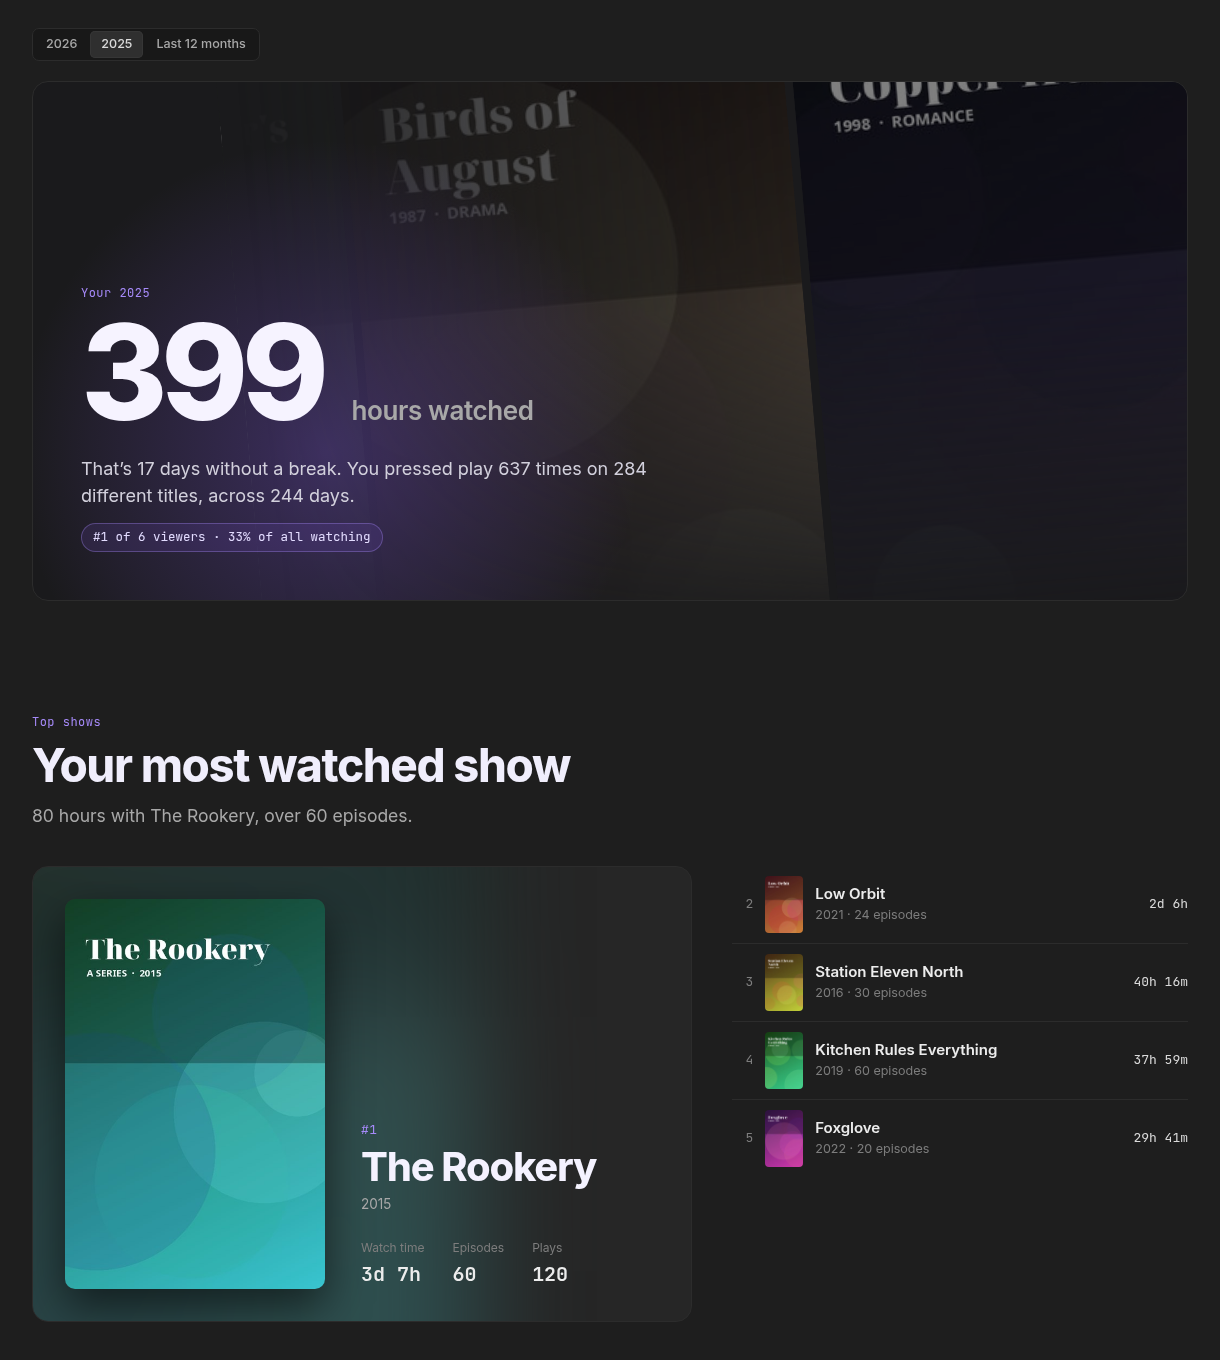
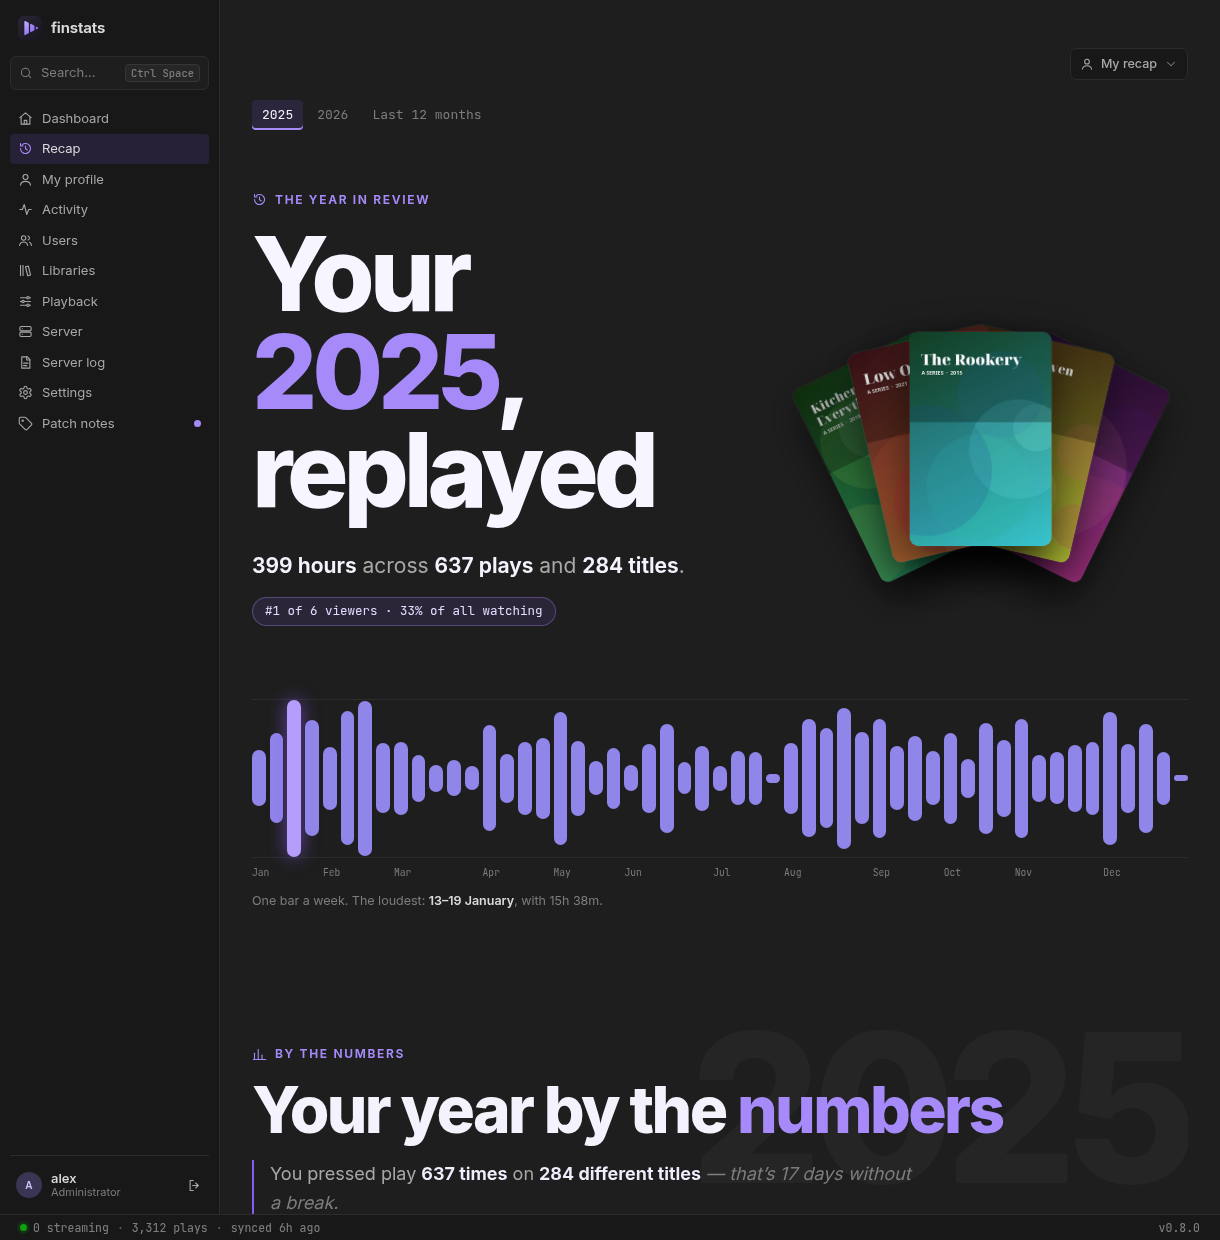
docs: describe the new recap data and refresh its screenshot

diff --git a/docs/api.md b/docs/api.md
@@ -474,3 +474,31 @@ to the caller, so someone without `see_everyone` still sees who they are watchin
 (any order; case, accents, punctuation and a leading article ignored; one slip allowed in words of 4–7 letters, two in
 longer ones; music also matches on its artist). Results are ranked, best first. The `q` filters of `/api/activity` and
 `/api/events` are word-by-word as well: each word must occur in at least one searched column.
+
+---
+
+# v0.8 — Recap: days, people, rewatches
+
+`GET /api/recap` gains, all within the same period and scope as the rest of the response:
+
+```jsonc
+{
+  "totals": { …, "movie_watch_s": 0, "episode_watch_s": 0, "track_watch_s": 0 },
+  "genres": {"count": 16, "plays": 480, "watch_s": 0} | null,   // distinct genres; plays and time of titles that have any genre
+                                                                  // (top_genres[0].watch_s / genres.watch_s = the top genre's share)
+  "people": {                                                     // most watched cast and crew, 5 each, by watch time
+    "actors":    [{"id": "…", "name": "…", "has_image": true, "plays": 0, "watch_s": 0, "titles": 3, "top_title": "…"}],
+    "directors": [ … same shape … ]
+  },
+  "rewatch": {"sittings": 0, "rewatches": 0, "share": 0.12} | null,
+  "days": [{"date": "2026-03-14", "plays": 3, "watch_s": 0}]      // only days with plays, oldest first, server TZ
+}
+```
+
+- **People** come from the films and shows themselves (an episode counts towards its show's cast). Only actors — the
+  first 12 billed per title — and directors are kept. A person's portrait is `GET /api/images/items/{person id}`.
+  They are read with the library, in a second, smaller request per library (`IncludeItemTypes=Movie,Series`,
+  `Fields=People`); until the first library read after upgrading, both lists are empty.
+- A **sitting** is one film or episode on one local day (plays of at least 5 minutes). A **rewatch** is a sitting with
+  something that already had one in the period: `rewatches = sittings − distinct titles`, `share = rewatches / sittings`.
+  Picking a play up again on the same day is not a rewatch.

diff --git a/README.md b/README.md
@@ -70,12 +70,13 @@ and current day streak.
 
 ### Your year in review
 
-<img src="docs/screenshots/recap.png" alt="Recap: 399 hours watched in 2025, rank among viewers, most watched show with poster" width="100%">
+<img src="docs/screenshots/recap.png" alt="Recap: Your 2025, replayed — the top posters fanned out beside the headline, above a waveform of the year with one bar per week" width="100%">
 
 A personal recap for every user, in the spirit of Spotify Wrapped: hours watched, top shows, movies,
-music and genres, the month-by-month story of the year, and a viewing personality — night owl,
-weekend warrior, binge watcher and more. Plus the records worth bragging about: biggest binge,
-longest daily streak, most rewatched title, the oldest film you watched.
+music and genres, the actors and directors you spent the most time with, and a viewing
+personality — night owl, weekend warrior, binge watcher and more. See the whole year as a calendar
+of days, find out which weekday took the crown, and collect the records worth bragging about:
+biggest binge, longest daily streak, most rewatched title, the oldest film you watched.
 
 Each person sees only their own. Administrators can open another person's recap; nobody else can,
 whatever permissions they hold, and there is no recap of the whole server.

diff --git a/CLAUDE.md b/CLAUDE.md
@@ -105,6 +105,8 @@ the caller only — finstats never writes to Jellyfin). Streaks are all-time and
 **Recap (`recap.rs`)** is one person's year: the caller's own, or, for a Jellyfin administrator only (`is_admin`, not a
 permission), the user in `user_id`. There is deliberately no whole-server edition. It excludes Live TV item types and
 defaults to the year that is "ready": the current year in December, otherwise the previous one.
+Its "most watched people" read `item_people`: actors (first 12 billed) and directors of films and shows only, filled by a
+second, small `/Items` pass per library in `sync_libraries` (`Fields=People`) — never add `People` to the main item read.
 
 **Auth (`auth.rs`).** Login forwards credentials to Jellyfin's `AuthenticateByName`, immediately logs that Jellyfin
 session out, and mints an own opaque session token (stored hashed, HttpOnly SameSite=Lax cookie).
